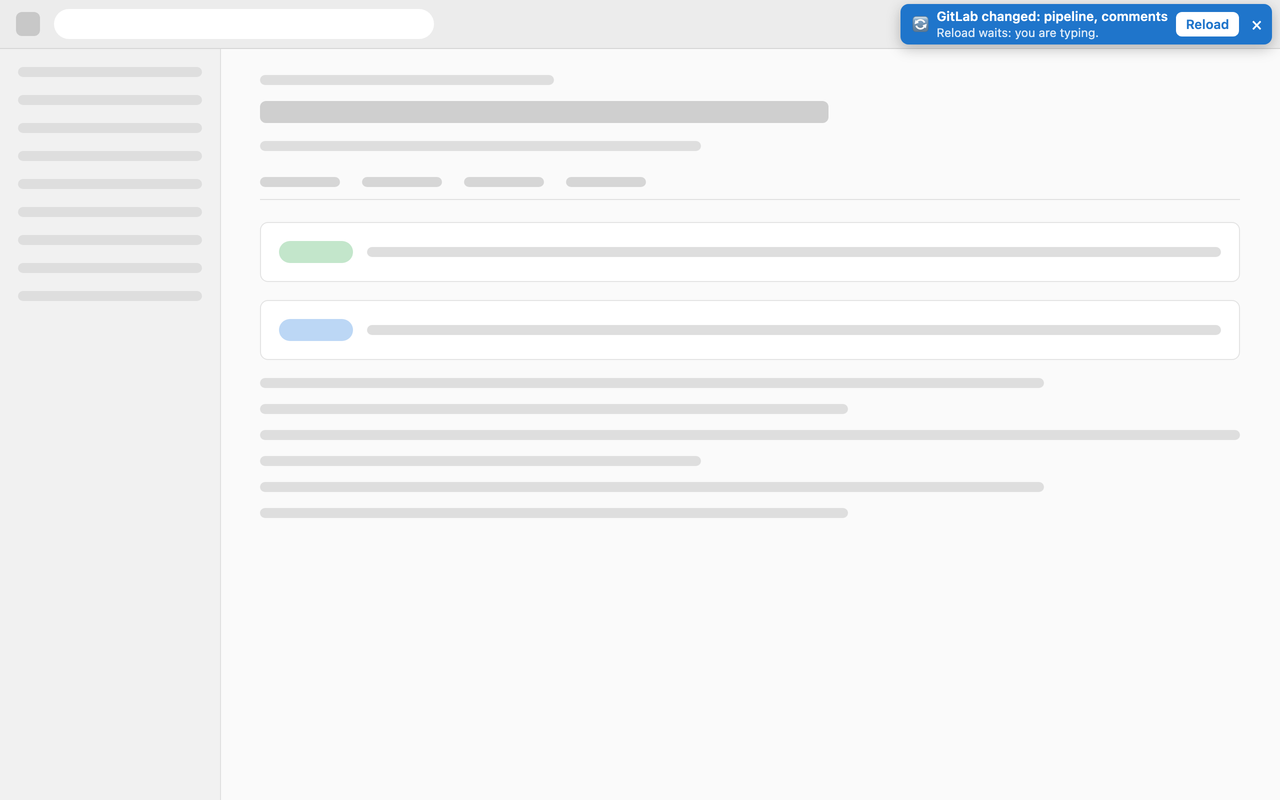
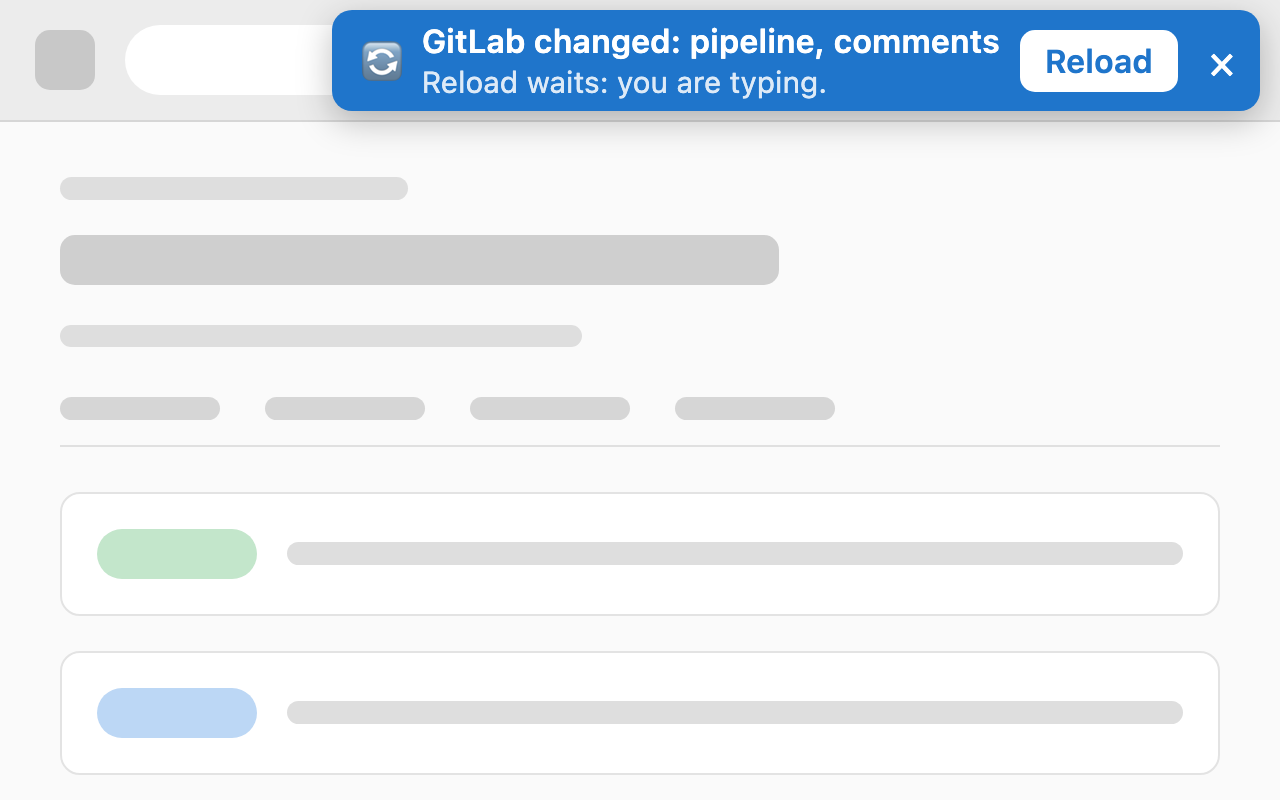
docs: store screenshots as close-ups, readable at the size the stores show them

diff --git a/docs/images/render.ts b/docs/images/render.ts
@@ -137,49 +137,50 @@ await screenshot(
 );
 await sharp(og).resize(1280, 640).png().toFile(join(publicDir, 'og.png'));
 
-// Store screenshots, drawn at 2x and scaled to exactly 1280x800, the size the
-// Chrome Web Store takes, on an abstract merge request under GitLab's top bar.
+// Store screenshots, 1280x800, the size the Chrome Web Store takes. The stores
+// show them about 600px wide, so each is a close-up: the top right corner of an
+// abstract merge request, 512x320 at 2.5x, where the banner and the popup read
+// at their real size.
 const store = join(root, 'docs/images/store');
+const STORE_WIDTH = 512;
+const STORE_HEIGHT = 320;
+const STORE_SCALE = 1280 / STORE_WIDTH;
 const mergeRequestPage = `
   <style>
     body { margin: 0; background: #fafafa; font: 13px system-ui; }
-    .top { height: 48px; display: flex; align-items: center; gap: 14px; padding: 0 16px;
+    .top { height: 48px; display: flex; align-items: center; gap: 12px; padding: 0 14px;
            background: #ececec; border-bottom: 1px solid #d6d6d6; }
-    .logo { width: 24px; height: 24px; border-radius: 6px; background: #c8c8c8; }
-    .search { width: 380px; height: 30px; border-radius: 15px; background: #fff; }
-    .side { position: fixed; top: 49px; bottom: 0; left: 0; width: 220px; padding: 18px 0;
-            background: #f1f1f1; border-right: 1px solid #e0e0e0; }
-    .main { margin-left: 220px; padding: 26px 40px; }
-    .row { height: 10px; margin: 0 0 16px; border-radius: 5px; background: #dedede; }
-    .side .row { margin: 0 18px 18px; }
-    .title { height: 22px; width: 58%; margin: 6px 0 18px; border-radius: 6px; background: #cfcfcf; }
-    .tabs { display: flex; gap: 22px; margin: 26px 0 22px; padding-bottom: 12px;
+    .logo { width: 24px; height: 24px; border-radius: 6px; background: #c8c8c8; flex: none; }
+    .search { width: 110px; height: 28px; border-radius: 14px; background: #fff; }
+    .main { padding: 22px 24px; }
+    .row { height: 9px; margin: 0 0 14px; border-radius: 5px; background: #dedede; }
+    .title { height: 20px; width: 62%; margin: 4px 0 16px; border-radius: 6px; background: #cfcfcf; }
+    .tabs { display: flex; gap: 18px; margin: 20px 0 18px; padding-bottom: 10px;
             border-bottom: 1px solid #e0e0e0; }
-    .tabs div { width: 80px; height: 10px; border-radius: 5px; background: #d6d6d6; }
-    .card { padding: 18px; margin-bottom: 18px; border: 1px solid #e3e3e3; border-radius: 8px;
-            background: #fff; display: flex; align-items: center; gap: 14px; }
-    .pill { width: 74px; height: 22px; border-radius: 11px; flex: none; }
+    .tabs div { width: 64px; height: 9px; border-radius: 5px; background: #d6d6d6; }
+    .card { padding: 14px; margin-bottom: 14px; border: 1px solid #e3e3e3; border-radius: 8px;
+            background: #fff; display: flex; align-items: center; gap: 12px; }
+    .pill { width: 64px; height: 20px; border-radius: 10px; flex: none; }
     .pass { background: #c3e6cb; } .run { background: #bcd7f5; }
     .card .row { flex: 1; margin: 0; }
     .w30 { width: 30%; } .w45 { width: 45%; } .w60 { width: 60%; } .w80 { width: 80%; }
   </style>
   <div class="top"><div class="logo"></div><div class="search"></div></div>
-  <div class="side">${'<div class="row"></div>'.repeat(9)}</div>
   <div class="main">
     <div class="row w30"></div><div class="title"></div><div class="row w45"></div>
     <div class="tabs"><div></div><div></div><div></div><div></div></div>
     <div class="card"><div class="pill pass"></div><div class="row"></div></div>
     <div class="card"><div class="pill run"></div><div class="row"></div></div>
     <div class="row w80"></div><div class="row w60"></div><div class="row"></div>
-    <div class="row w45"></div><div class="row w80"></div><div class="row w60"></div>
   </div>`;
 
 await screenshot(
   `<!doctype html><meta charset="utf-8">${mergeRequestPage}
    <script>${showBanner}; showBanner('updates', { changes: 'pipeline, comments', why: 'you are typing' });</script>`,
-  1280,
-  800,
+  STORE_WIDTH,
+  STORE_HEIGHT,
   join(work, 'store-banner.png'),
+  STORE_SCALE,
 );
 
 const popupStyle = await readFile(
@@ -191,7 +192,7 @@ await screenshot(
   `<!doctype html><meta charset="utf-8">
    <style>
      .toolbar { height: 40px; display: flex; align-items: center; justify-content: flex-end;
-                gap: 16px; padding: 0 18px; background: #dcdcdc; border-bottom: 1px solid #c8c8c8; }
+                gap: 14px; padding: 0 14px; background: #dcdcdc; border-bottom: 1px solid #c8c8c8; }
      .toolbar .url { flex: 1; height: 26px; border-radius: 13px; background: #f4f4f4; }
      .toolbar img { width: 20px; height: 20px; }
      .popup { position: fixed; top: 46px; right: 8px; border-radius: 8px; overflow: hidden;
@@ -199,16 +200,17 @@ await screenshot(
      .popup iframe { display: block; width: 332px; height: 136px; border: 0; }
    </style>
    <div class="toolbar"><div class="url"></div><img src="${iconUri}" alt=""></div>
-   ${mergeRequestPage.replace('top: 49px', 'top: 90px')}
+   ${mergeRequestPage}
    <div class="popup"><iframe srcdoc="${`<!doctype html><meta charset='utf-8'>
      <style>${popupStyle}</style>
      <header><img src='${iconUri}' alt='' width='20' height='20'><h1>GitLab Live Refresh</h1></header>
      <script>${showPopup}</script>`
        .replaceAll('&', '&amp;')
        .replaceAll('"', '&quot;')}"></iframe></div>`,
-  1280,
-  800,
+  STORE_WIDTH,
+  STORE_HEIGHT,
   join(work, 'store-popup.png'),
+  STORE_SCALE,
 );
 
 // The Chrome Web Store's small promo tile, 440x280.
